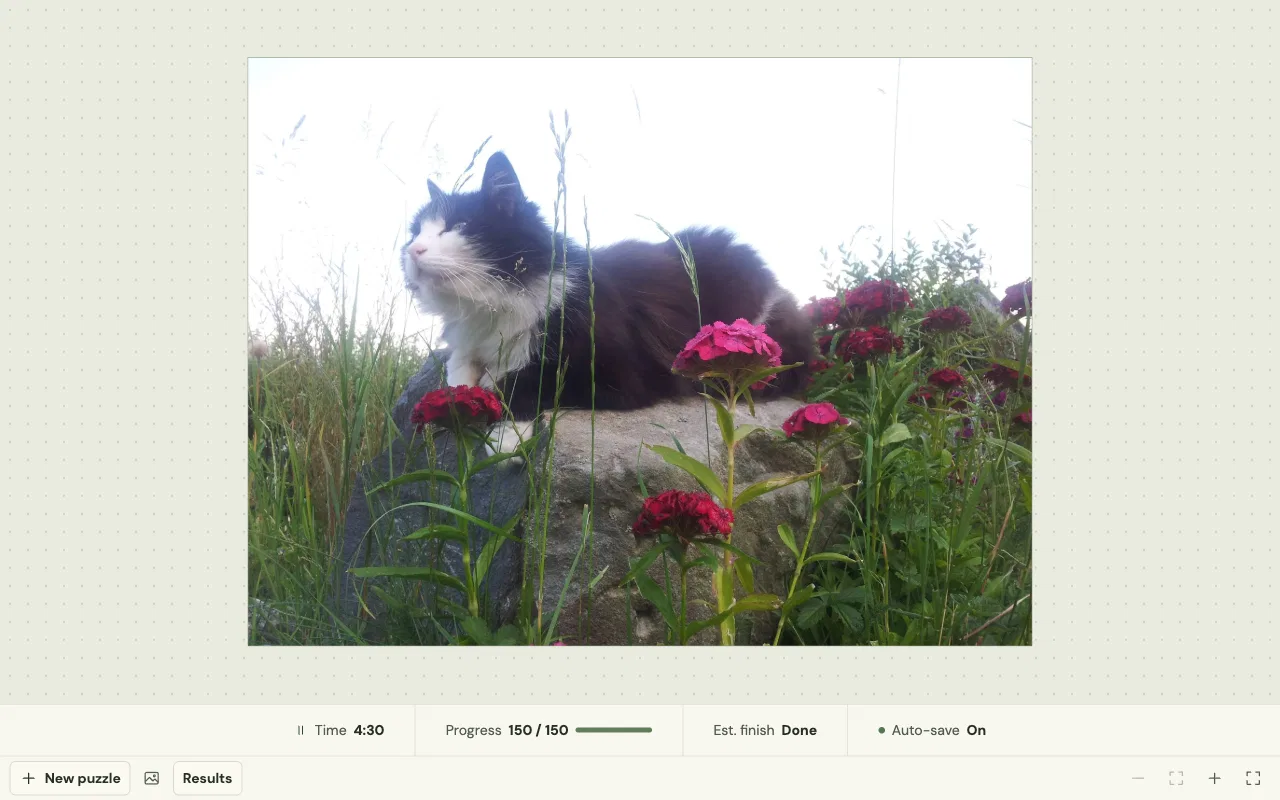
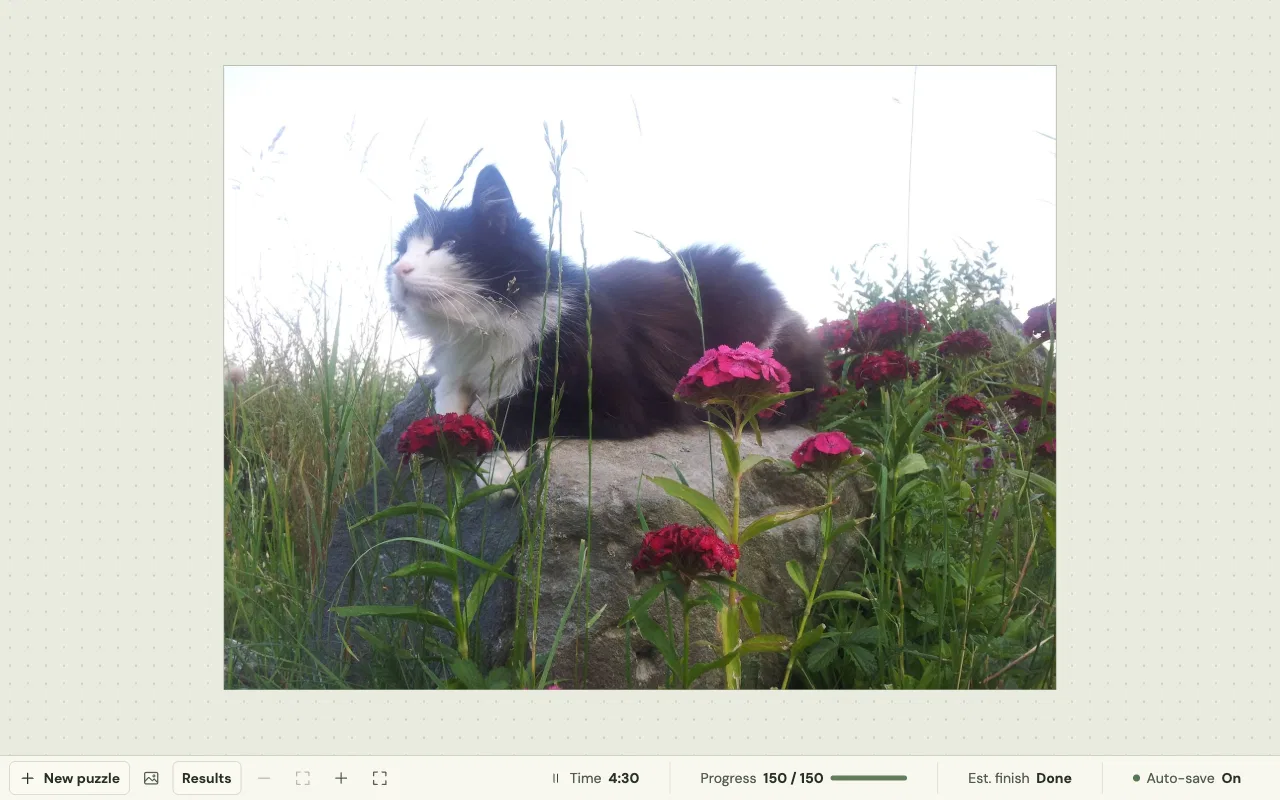
Unify bottom bar and spread loose pieces evenly

diff --git a/index.html b/index.html
@@ -7,8 +7,8 @@
   <meta name="description" content="A quiet jigsaw table for your favorite photos.">
   <title>Puzzle Dad</title>
   <link rel="icon" type="image/svg+xml" href="./assets/puzzle.svg">
-  <link rel="stylesheet" href="./styles.css?v=4">
-  <script type="module" src="./app.mjs?v=4"></script>
+  <link rel="stylesheet" href="./styles.css?v=6">
+  <script type="module" src="./app.mjs?v=5"></script>
 </head>
 <body>
   <svg class="definitions" aria-hidden="true" xmlns="http://www.w3.org/2000/svg">
@@ -54,45 +54,45 @@
     </div>
 
     <footer class="controls">
-    <div class="puzzlebar" role="group" aria-label="Puzzle status">
-      <button type="button" class="indicator time-indicator" id="timer-toggle" aria-label="Pause timer" aria-pressed="false">
-        <svg class="icon" aria-hidden="true"><use id="timer-icon" href="#i-pause"></use></svg>
-        <span class="indicator-label">Time</span>
-        <strong id="elapsed" aria-hidden="true">0:00</strong>
-      </button>
-      <div class="indicator progress-indicator">
-        <span class="indicator-label">Progress</span>
-        <strong id="progress-text">0 / 150</strong>
-        <progress id="progress" value="0" max="150" aria-label="Pieces placed"></progress>
-      </div>
-      <div class="indicator">
-        <span class="indicator-label">Est. finish</span>
-        <strong id="estimate" title="Estimated local finish time based on your recent placements">—</strong>
-      </div>
-      <div class="indicator save-indicator" id="storage-status" role="status">
-        <span class="status-dot" aria-hidden="true"></span>
-        <span class="indicator-label">Auto-save</span>
-        <strong id="save-value">On</strong>
-      </div>
-    </div>
+      <nav class="toolbar" aria-label="Puzzle tools">
+        <div class="tool-group">
+          <button type="button" class="button utility new-button" id="new-game" aria-label="New puzzle"><svg class="icon" aria-hidden="true"><use href="#i-plus"></use></svg><span>New puzzle</span></button>
+          <button type="button" class="icon-button" id="preview-photo" aria-label="Reference photo" title="Reference photo"><svg class="icon" aria-hidden="true"><use href="#i-image"></use></svg></button>
+          <button type="button" class="icon-button" id="guide-toggle" aria-label="Background photo" aria-pressed="true" title="Background photo"><svg class="icon" aria-hidden="true"><use href="#i-background"></use></svg></button>
+          <button type="button" class="icon-button" id="frame-toggle" aria-label="Placement frame" aria-pressed="true" title="Placement frame"><svg class="icon" aria-hidden="true"><use href="#i-guide"></use></svg></button>
+          <button type="button" class="icon-button" id="edge-toggle" aria-label="Show edge pieces only" aria-pressed="false" title="Show edge pieces only"><svg class="icon" aria-hidden="true"><use href="#i-edge"></use></svg></button>
+          <button type="button" class="icon-button" id="shuffle" aria-label="Shuffle loose pieces" title="Shuffle loose pieces"><svg class="icon" aria-hidden="true"><use href="#i-shuffle"></use></svg></button>
+          <button type="button" class="button utility" id="show-results" hidden>Results</button>
+        </div>
+        <div class="tool-group zoom-group">
+          <button type="button" class="icon-button" id="zoom-out" aria-label="Zoom out" title="Zoom out"><svg class="icon" aria-hidden="true"><use href="#i-minus"></use></svg></button>
+          <button type="button" class="icon-button" id="zoom-fit" aria-label="Fit puzzle table" title="Fit puzzle table"><svg class="icon" aria-hidden="true"><use href="#i-expand"></use></svg></button>
+          <button type="button" class="icon-button" id="zoom-in" aria-label="Zoom in" title="Zoom in"><svg class="icon" aria-hidden="true"><use href="#i-plus"></use></svg></button>
+          <button type="button" class="icon-button" id="fullscreen-toggle" aria-label="Enter fullscreen" aria-pressed="false" title="Enter fullscreen"><svg class="icon" aria-hidden="true"><use id="fullscreen-icon" href="#i-fullscreen"></use></svg></button>
+        </div>
+      </nav>
 
-    <nav class="toolbar" aria-label="Puzzle tools">
-      <div class="tool-group">
-        <button type="button" class="button utility new-button" id="new-game" aria-label="New puzzle"><svg class="icon" aria-hidden="true"><use href="#i-plus"></use></svg><span>New puzzle</span></button>
-        <button type="button" class="icon-button" id="preview-photo" aria-label="Reference photo" title="Reference photo"><svg class="icon" aria-hidden="true"><use href="#i-image"></use></svg></button>
-        <button type="button" class="icon-button" id="guide-toggle" aria-label="Background photo" aria-pressed="true" title="Background photo"><svg class="icon" aria-hidden="true"><use href="#i-background"></use></svg></button>
-        <button type="button" class="icon-button" id="frame-toggle" aria-label="Placement frame" aria-pressed="true" title="Placement frame"><svg class="icon" aria-hidden="true"><use href="#i-guide"></use></svg></button>
-        <button type="button" class="icon-button" id="edge-toggle" aria-label="Show edge pieces only" aria-pressed="false" title="Show edge pieces only"><svg class="icon" aria-hidden="true"><use href="#i-edge"></use></svg></button>
-        <button type="button" class="icon-button" id="shuffle" aria-label="Shuffle loose pieces" title="Shuffle loose pieces"><svg class="icon" aria-hidden="true"><use href="#i-shuffle"></use></svg></button>
-        <button type="button" class="button utility" id="show-results" hidden>Results</button>
+      <div class="puzzlebar" role="group" aria-label="Puzzle status">
+        <button type="button" class="indicator time-indicator" id="timer-toggle" aria-label="Pause timer" aria-pressed="false">
+          <svg class="icon" aria-hidden="true"><use id="timer-icon" href="#i-pause"></use></svg>
+          <span class="indicator-label">Time</span>
+          <strong id="elapsed" aria-hidden="true">0:00</strong>
+        </button>
+        <div class="indicator progress-indicator">
+          <span class="indicator-label">Progress</span>
+          <strong id="progress-text">0 / 150</strong>
+          <progress id="progress" value="0" max="150" aria-label="Pieces placed"></progress>
+        </div>
+        <div class="indicator">
+          <span class="indicator-label">Est. finish</span>
+          <strong id="estimate" title="Estimated local finish time based on your recent placements">—</strong>
+        </div>
+        <div class="indicator save-indicator" id="storage-status" role="status">
+          <span class="status-dot" aria-hidden="true"></span>
+          <span class="indicator-label">Auto-save</span>
+          <strong id="save-value">On</strong>
+        </div>
       </div>
-      <div class="tool-group zoom-group">
-        <button type="button" class="icon-button" id="zoom-out" aria-label="Zoom out" title="Zoom out"><svg class="icon" aria-hidden="true"><use href="#i-minus"></use></svg></button>
-        <button type="button" class="icon-button" id="zoom-fit" aria-label="Fit puzzle table" title="Fit puzzle table"><svg class="icon" aria-hidden="true"><use href="#i-expand"></use></svg></button>
-        <button type="button" class="icon-button" id="zoom-in" aria-label="Zoom in" title="Zoom in"><svg class="icon" aria-hidden="true"><use href="#i-plus"></use></svg></button>
-        <button type="button" class="icon-button" id="fullscreen-toggle" aria-label="Enter fullscreen" aria-pressed="false" title="Enter fullscreen"><svg class="icon" aria-hidden="true"><use id="fullscreen-icon" href="#i-fullscreen"></use></svg></button>
-      </div>
-    </nav>
     </footer>
     <p id="announcement" class="visually-hidden" role="status"></p>
   </main>

diff --git a/styles.css b/styles.css
@@ -62,15 +62,21 @@ h1, h2, p, figure { margin: 0; }
   height: 100vh;
   height: 100dvh;
 }
-.controls { grid-row: 2; min-width: 0; }
+.controls {
+  grid-row: 2;
+  display: flex;
+  align-items: center;
+  gap: .6rem;
+  min-width: 0;
+  border-top: 1px solid #cdd2c5;
+  background: var(--paper);
+  padding: .3rem .55rem max(.3rem, env(safe-area-inset-bottom));
+}
+html.puzzle-fullscreen .controls, html.puzzle-fullscreen .toast, html.puzzle-fullscreen .drop-overlay { display: none !important; }
 .puzzlebar {
   display: flex;
-  align-items: stretch;
-  justify-content: center;
-  min-height: 3.25rem;
-  background: var(--paper);
-  border-top: 1px solid #cdd2c5;
-  padding-inline: .4rem;
+  align-items: center;
+  flex: 0 0 auto;
 }
 .indicator {
   display: flex;
@@ -138,14 +144,10 @@ progress::-moz-progress-bar { background: #607d5a; transition: width .18s ease-o
 .loose-piece { cursor: grab; outline: none; }
 .loose-piece .piece-graphic { pointer-events: none; filter: drop-shadow(0 1px 1px #27322255); }
 .loose-piece .hit-piece { fill: transparent; stroke: transparent; stroke-width: 12; stroke-linejoin: round; pointer-events: visiblePainted; }
-.loose-piece:hover .piece-outline, .loose-piece:focus-visible .piece-outline,
-.loose-piece[aria-pressed="true"] .piece-outline {
-  stroke: #a14b2f;
-  stroke-opacity: 1;
-  stroke-width: 2;
+.loose-piece:hover .piece-graphic, .loose-piece:focus-visible .piece-graphic,
+.loose-piece[aria-pressed="true"] .piece-graphic {
+  filter: drop-shadow(0 0 7px #f9dc72) drop-shadow(0 0 3px #fff7cf);
 }
-.loose-piece.near-target .piece-graphic { filter: drop-shadow(0 0 7px #f9dc72) drop-shadow(0 0 3px #fff7cf); }
-.loose-piece.near-target .piece-outline { stroke: #fff3b0; stroke-opacity: 1; stroke-width: 2.6; }
 .board[data-dragging], .loose-piece[data-dragging] { cursor: grabbing; }
 .board.miss #board-target { stroke: var(--rust); }
 .snap-spark { pointer-events: none; stroke: #fff9e1; stroke-linecap: round; stroke-width: 2.5; }
@@ -154,14 +156,14 @@ progress::-moz-progress-bar { background: #607d5a; transition: width .18s ease-o
 .toolbar {
   display: flex;
   align-items: center;
-  justify-content: space-between;
-  gap: .3rem;
-  border-top: 1px solid #e1e3d8;
-  background: var(--paper);
-  padding: .28rem .6rem max(.28rem, env(safe-area-inset-bottom));
+  flex: 1 1 auto;
+  gap: .35rem;
+  min-width: 0;
+  overflow-x: auto;
+  scrollbar-width: none;
 }
-.tool-group { display: flex; align-items: center; gap: .25rem; min-width: 0; }
-.zoom-group { margin-left: auto; }
+.toolbar::-webkit-scrollbar { display: none; }
+.tool-group { display: flex; align-items: center; flex: 0 0 auto; gap: .25rem; }
 .button, .icon-button {
   display: inline-flex;
   align-items: center;
@@ -252,19 +254,21 @@ fieldset legend { padding: 0 0 .35rem; }
 .rhythm figcaption { font-size: .9rem; font-weight: 700; }
 .rhythm svg { display: block; width: 100%; height: 5.4rem; margin-top: .4rem; color: #6f8769; }
 .chart-labels { display: flex; justify-content: space-between; color: var(--muted); font-size: .76rem; }
-@media (max-width: 41rem) {
-  .indicator { padding-inline: .6rem; font-size: .81rem; }
+@media (max-width: 75rem) {
+  .indicator { padding-inline: .4rem; font-size: .78rem; }
   .progress-indicator progress { display: none; }
 }
-@media (max-width: 30rem) {
-  .puzzlebar { justify-content: space-evenly; min-height: 3.05rem; }
-  .indicator { display: grid; grid-template: auto auto / auto; gap: 0; align-content: center; text-align: center; flex: 1; padding: .15rem .2rem; line-height: 1.23; }
-  .indicator-label { font-size: .73rem; }
+@media (max-width: 58rem) {
+  .indicator { display: grid; gap: 0; text-align: center; padding: .1rem .28rem; line-height: 1.2; }
+  .indicator-label { font-size: .65rem; }
   .indicator .icon, .status-dot { display: none; }
   .save-indicator[data-failed] strong { color: var(--rust-dark); }
-  .toolbar { padding-inline: .24rem; }
+}
+@media (max-width: 30rem) {
+  .controls { gap: .2rem; padding-inline: .2rem; }
+  .indicator { padding-inline: .2rem; font-size: .72rem; }
+  .indicator-label { font-size: .59rem; }
   .tool-group { gap: .15rem; }
-  .new-button { margin-right: .1rem; }
   .setup-options { grid-template-columns: 1fr 1fr; }
   .setup-options label:last-child { grid-column: 1 / -1; }
 }

diff --git a/README.md b/README.md
@@ -10,10 +10,10 @@ A full-screen jigsaw with 13 photos and a 150-piece default. [Play the latest ve
 
 - Drag loose pieces around the table and snap them into place. You can also select a piece and tap its destination. With the keyboard, Tab to a piece, press Enter, move it with the arrow keys, and press Enter again to place it.
 - Open **New puzzle** to change the photo, piece count (24 to 1,000), shape, cut pattern, or orientation. Classic cuts use varied tab sizes, positions, and depths. With shuffled orientation, click a piece or press R to rotate it clockwise by a quarter turn.
-- Use the fullscreen button in the bottom toolbar to enter or leave browser fullscreen mode. Pieces glow when they reach the right spot with the correct orientation.
+- Use the fullscreen button in the bottom bar to hide the interface and play on the whole screen; press Escape to leave fullscreen. Pieces glow when hovered, focused, or selected.
 - Toggle the faint background photo and the placement frame separately in the toolbar.
 - Drop an image on the table to add it to the photo shelf and open the setup dialog. The browser saves the current puzzle, loose-piece positions and rotations, results, and photos you add. The starter gallery is bundled with the site. Added photos stay in your browser.
-- The bottom status bar estimates your local finish time after three placements using your recent pace. Results show active time, pieces per second and minute, and the average, variance, and root-mean-square change of placement gaps.
+- The bottom bar estimates your local finish time after three placements using your recent pace. Results show active time, pieces per second and minute, and the average, variance, and root-mean-square change of placement gaps.
 
 ## Run locally
 
